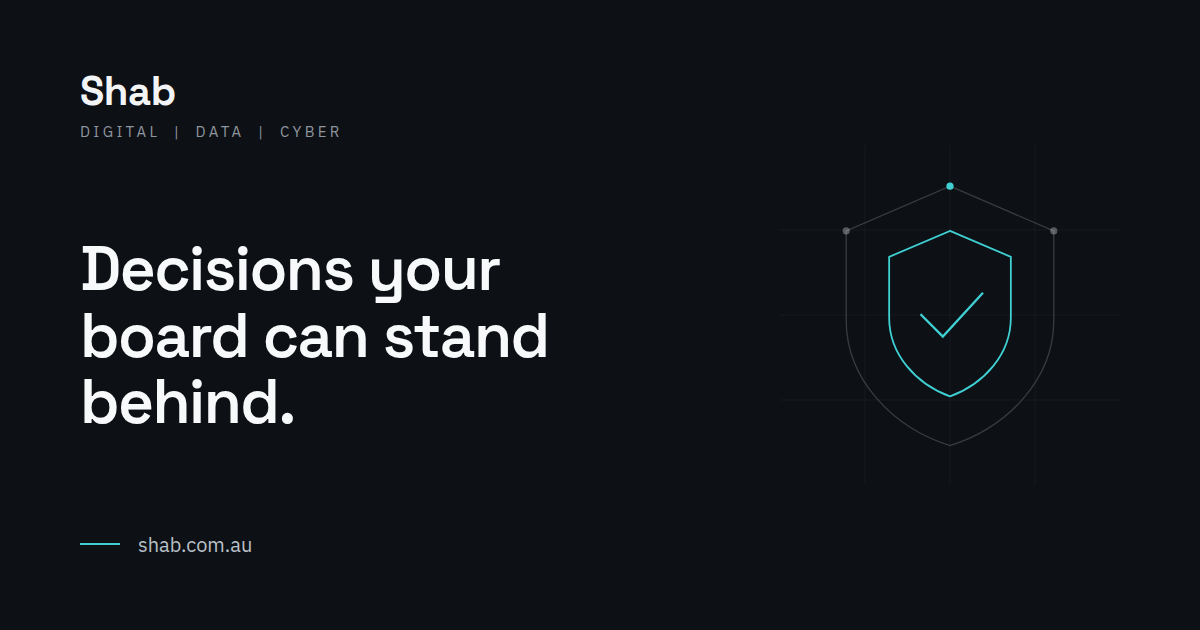
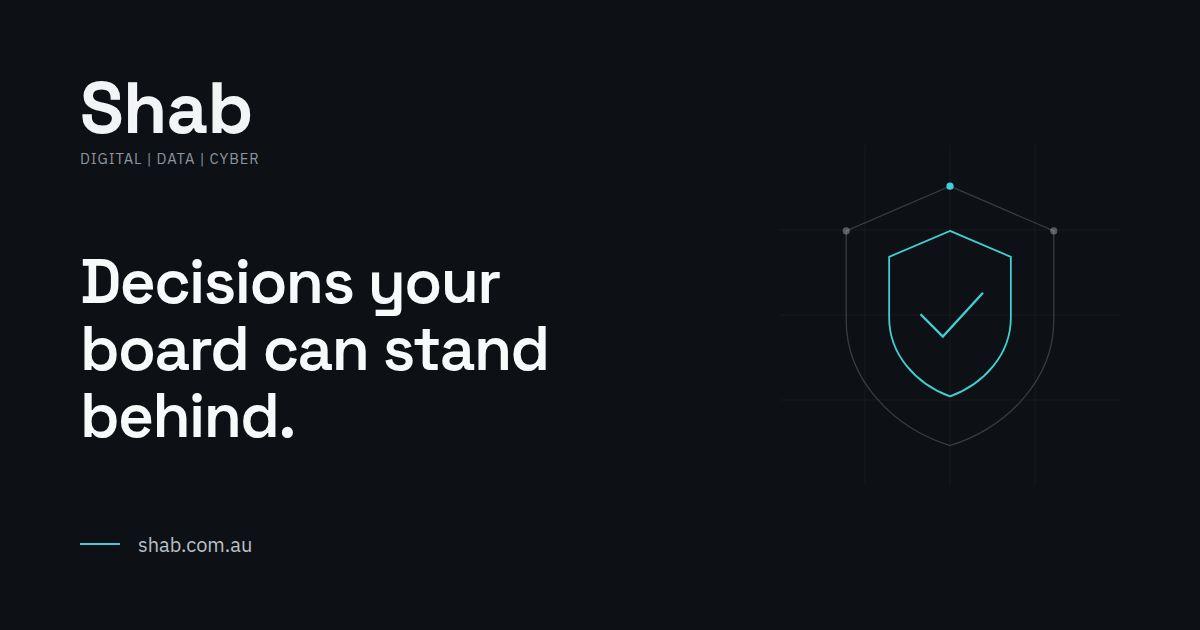
Build the OG card on the wordmark lockup (#13)
The share card used ad-hoc type sizes predating the lockup. It now uses
the same ratios as Wordmark.astro at a 72px scale, so the strapline sits
flush under the wordmark as it does in the header. OgCard.dc.html matches,
keeping artboard and rendered PNG the same design.

diff --git a/OgCard.dc.html b/OgCard.dc.html
@@ -18,9 +18,9 @@
 <div style="width: 1200px; height: 630px; background: #0d1015; color: #f2f4f6; display: flex; align-items: center; gap: 64px; padding: 72px 80px; box-sizing: border-box; overflow: hidden">
 
   <div style="flex-grow: 1; display: flex; flex-direction: column; justify-content: space-between; height: 100%">
-    <div style="display: flex; flex-direction: column; gap: 10px">
-      <div style="font-family: 'Space Grotesk', sans-serif; font-size: 40px; font-weight: 700; letter-spacing: -0.01em; line-height: 1">Shab</div>
-      <div style="font-size: 15px; letter-spacing: 0.22em; text-transform: uppercase; color: #8d959e">Digital &nbsp;|&nbsp; Data &nbsp;|&nbsp; Cyber</div>
+    <div style="display: flex; flex-direction: column; align-items: flex-start; gap: 6.5px">
+      <div style="font-family: 'Space Grotesk', sans-serif; font-size: 72px; font-weight: 700; letter-spacing: -0.01em; line-height: 1">Shab</div>
+      <div style="font-size: 14.8px; letter-spacing: 0.89px; margin-right: -0.89px; line-height: 1.2; text-transform: uppercase; color: #8d959e">Digital | Data | Cyber</div>
     </div>
 
     <h1 style="font-family: 'Space Grotesk', sans-serif; font-size: 62px; font-weight: 600; line-height: 1.08; letter-spacing: -0.025em; color: #f7f9fa; max-width: 15ch">Decisions your board can stand behind.</h1>
